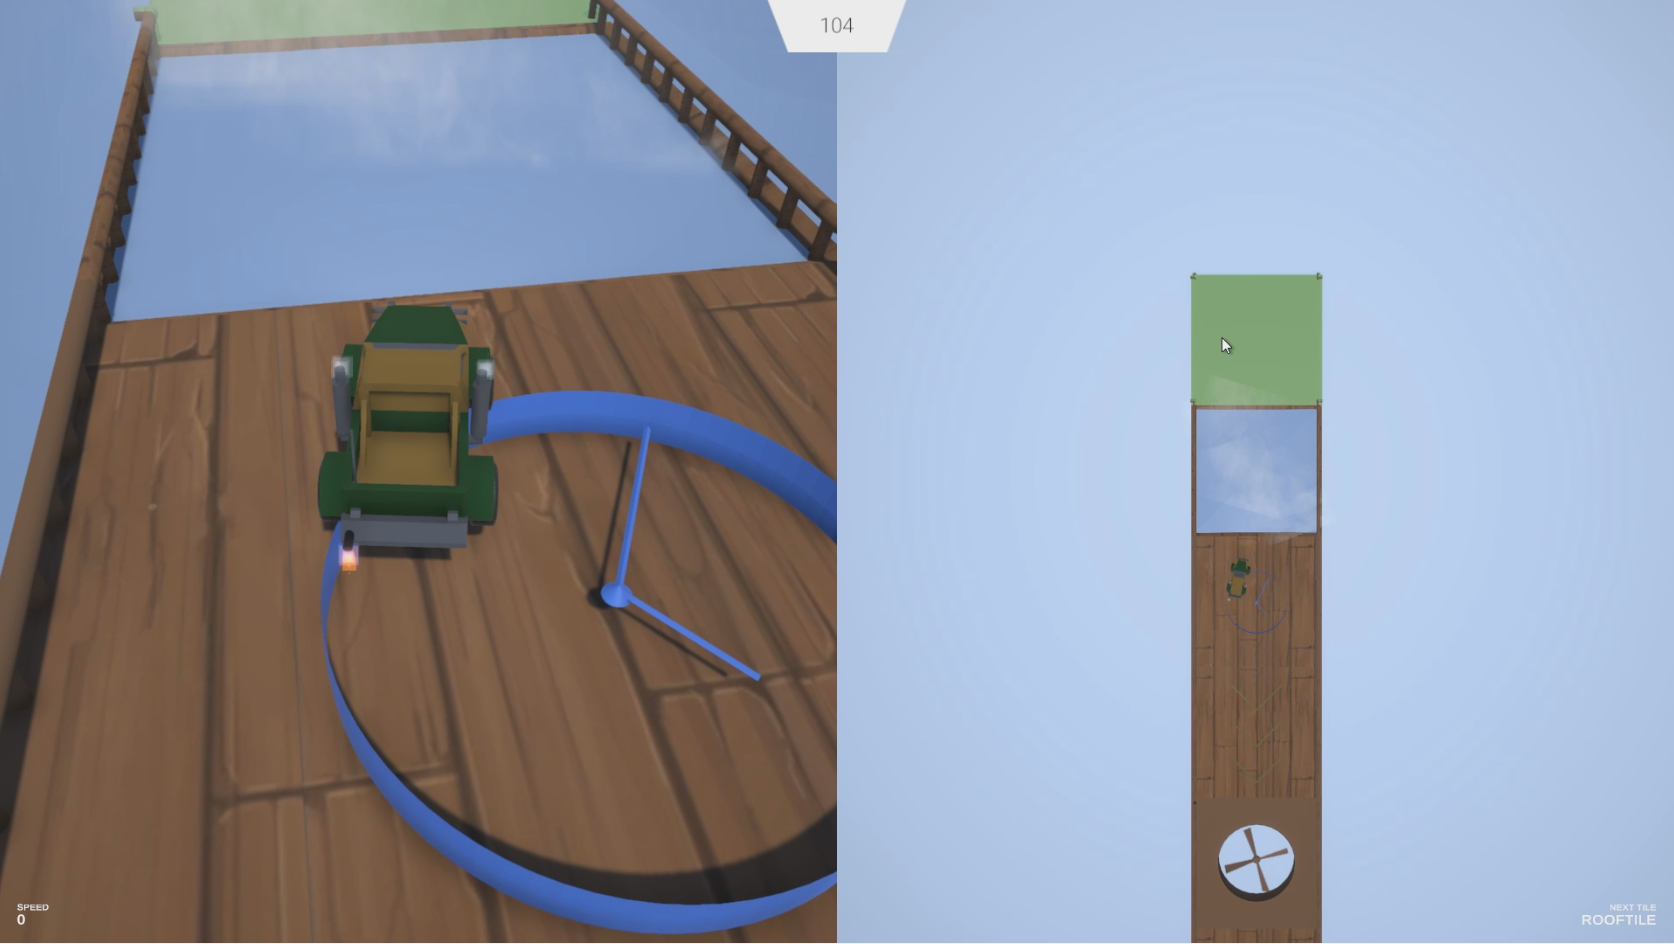
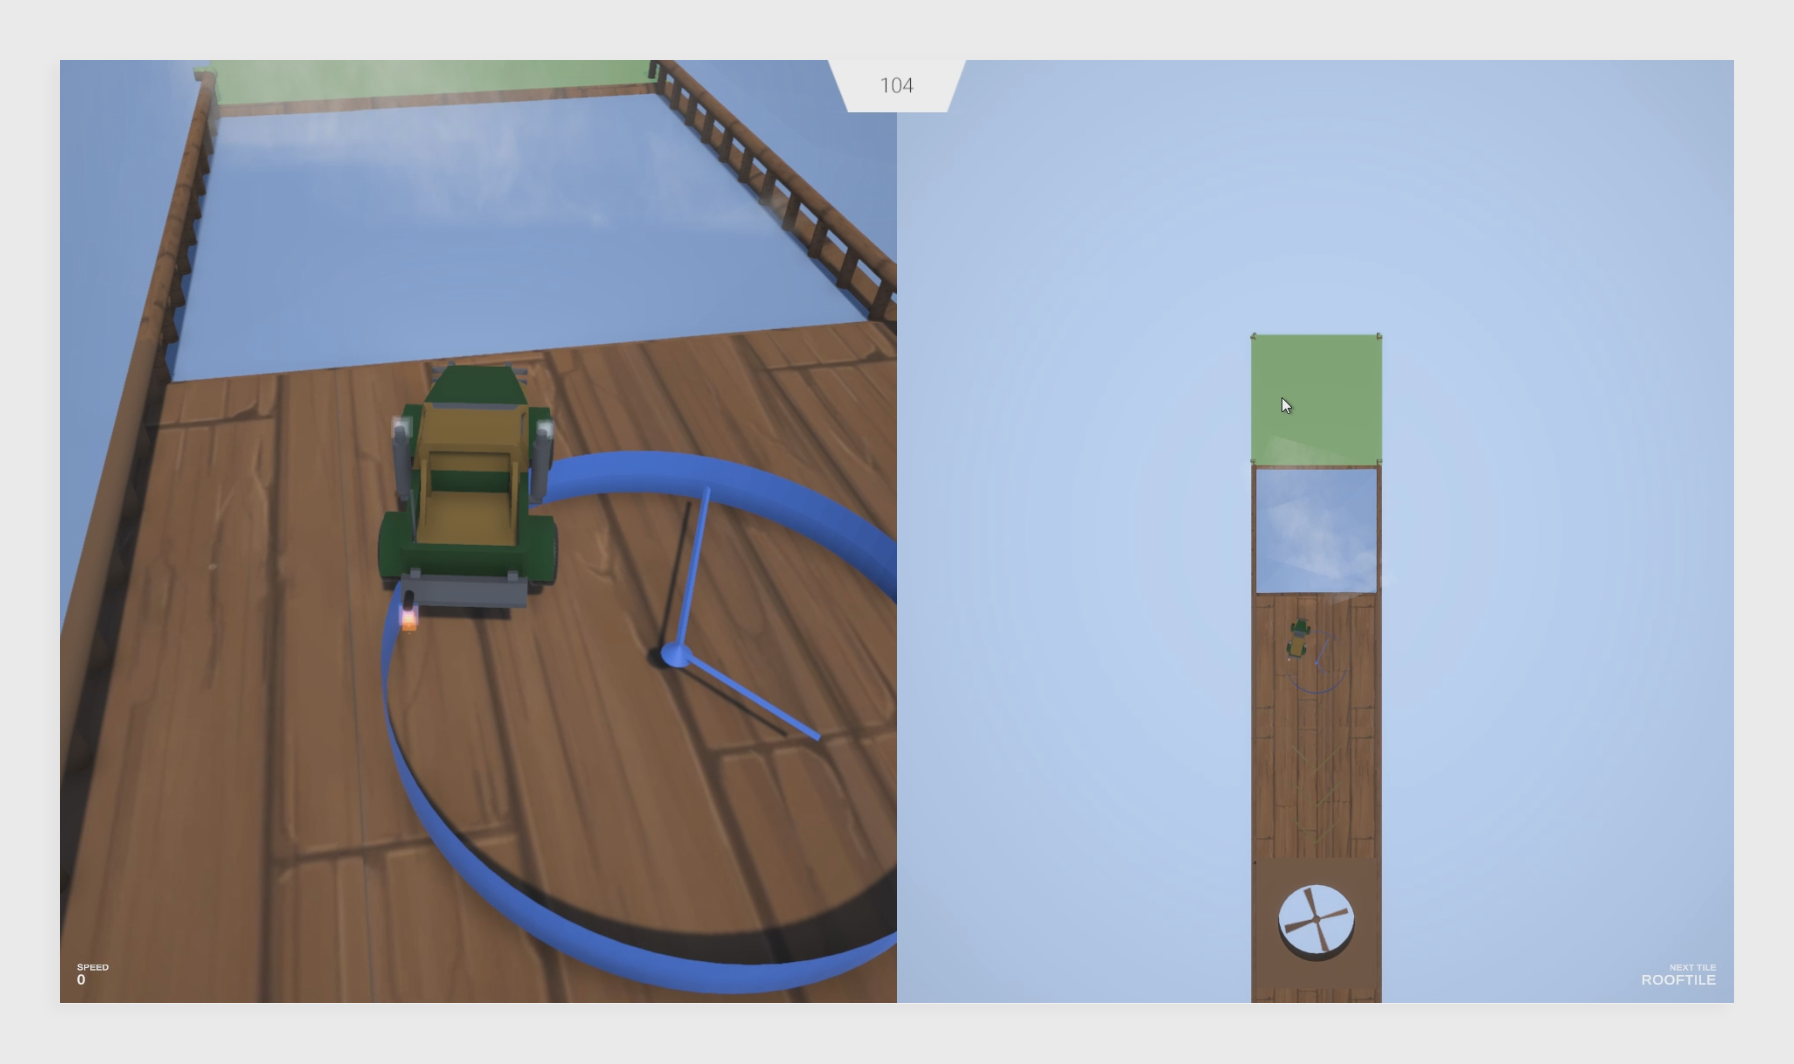
Change project name to match new convention and improve screenshot.

diff --git a/README.md b/README.md
@@ -1,10 +1,10 @@
 # Can't Stop Driving
 
-![screenshot](https://raw.githubusercontent.com/AllOfTheAbove/CantStopDriving/master/screenshot.png)
+![screenshot](https://raw.githubusercontent.com/AllOfTheAbove/cant-stop-driving/master/screenshot.png)
 
 ## Play
 
-Please consider downloading lastest version on [our website]( http://cant-stop-driving.com/play.html).
+Please consider downloading lastest version on [our website](https://cantstopdriving.thdoteo.com/play.html).
 You can build the game from Unity to your desired platform but the multiplayer won't work except on local networks.
 
 ## Roadmap
@@ -37,7 +37,7 @@ You can build the game from Unity to your desired platform but the multiplayer w
 2. Go inside an empty directory and open a terminal there.
 3. Type this command:
 ~~~~
-git clone https://github.com/AllOfTheAbove/CantStopDriving.git
+git clone https://github.com/AllOfTheAbove/cant-stop-driving.git
 ~~~~
 4. Open Unity and select your workspace.
 *(If you build from your clone of this repo the multiplayer won't work except on local networks. Furthermore, in order to have the scoreboard system to work you need to have a proper APISettings.cs. The one in this repo is blank for obvious security concerns.)*
